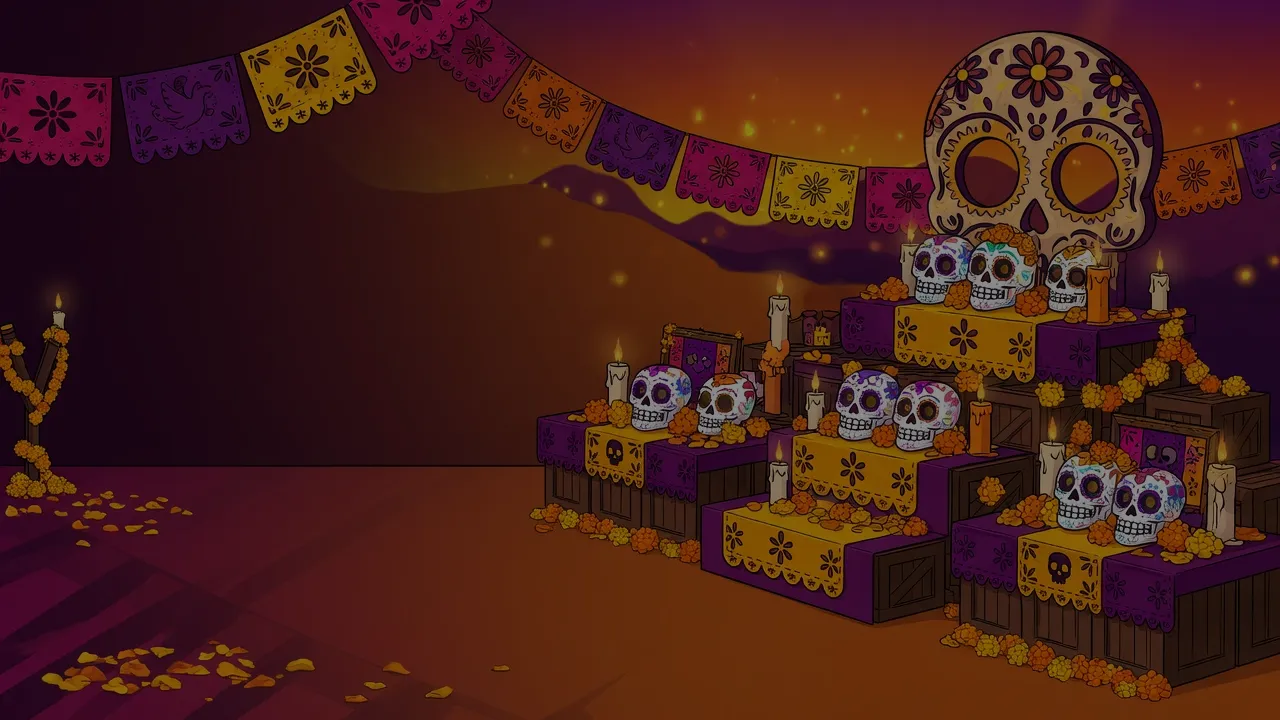
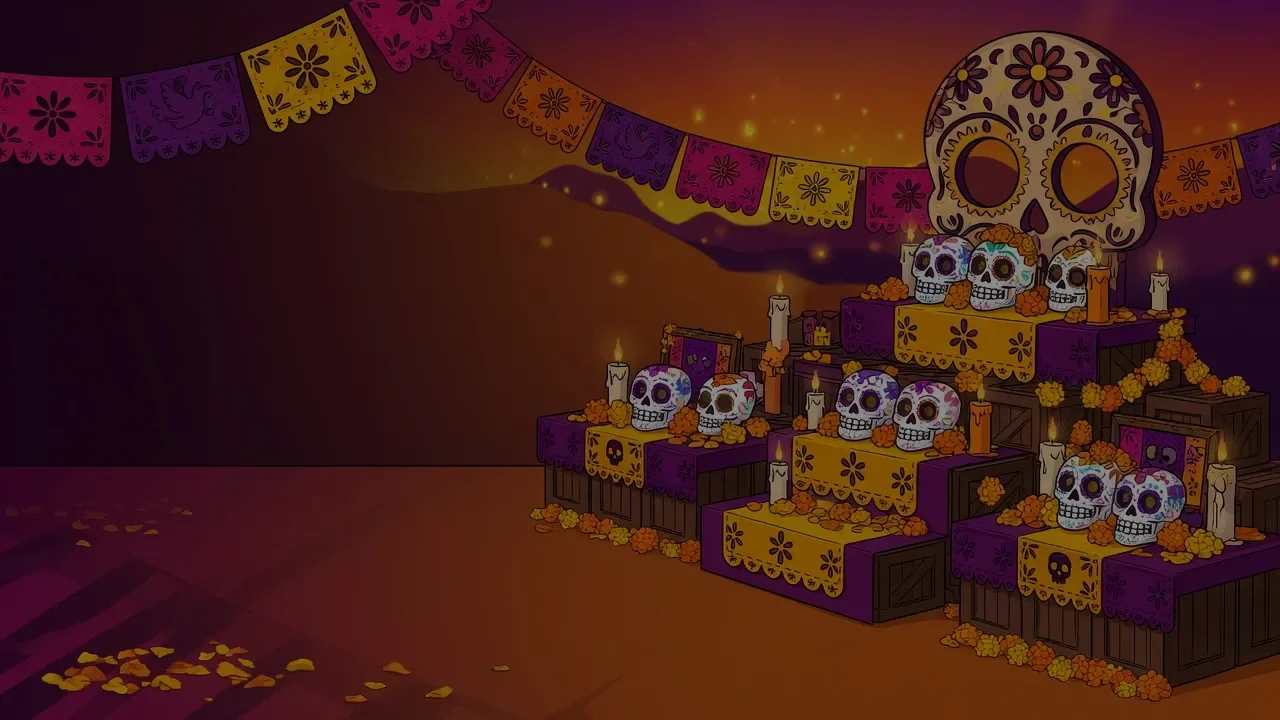
Chancla Strike: Abuela removed everywhere (gameplay, how-to, title/rotate text, level tip, share card, /choose card -> gold chancla); slingshot removed (no fork/bands; painted Y-fork removed from the cemetery/catacomb backdrops) - only the floating glowing gold chancla (bob, rays, halo, sparkles), d

Changed region(s): [[0.0, 0.3972, 0.125, 0.7639]]

diff --git a/src/play/fling.ts b/src/play/fling.ts
@@ -9,12 +9,9 @@ import * as A from './flingAudio';
 
 const { Engine, Bodies, Composite, Body, Events, Vector, Sleeping } = Matter;
 const W = 1100, H = 1000, GROUND = 920;            // world units; fits portrait & landscape
-// Slingshot: the floating gold chancla sits in a gold-banded sling in front of Abuela. SLING = rest point of the chancla;
-// launch + aim guide originate here. Pull back (drag anywhere), the chancla follows, glows with power, release to throw.
-const ABU = { x: 68, ground: 920 };                 // feet centre (same spot the old sprite stood)
-// v2 chibi art (front-facing, angry): wind-up = chancla held back on her left; release = same art mirrored, fist out toward the fort, chancla gone (in flight)
-const REL = { h: 210 };
-const SLING = { x: 176, y: 790 }, PRONG = 30, VIS = 0.42; // VIS = how far the chancla follows the pull on screen
+// The gold chancla is the thrower: it floats and glows at SLING (its rest point; launch + aim guide originate here).
+// Pull back on it (or drag anywhere), it follows the pull and glows with power, release to throw.
+const SLING = { x: 176, y: 790 }, VIS = 0.42; // VIS = how far the chancla follows the pull on screen
 const MAXPULL = 140, POWER = 0.21;
 
 const cv = document.createElement('canvas'); (document.body as HTMLElement).insertBefore(cv, document.body.firstChild);
@@ -36,7 +33,7 @@ function fit() {
   const cs = getComputedStyle(safeProbe); const sl = parseFloat(cs.paddingLeft) || 0, sr = parseFloat(cs.paddingRight) || 0, sb = parseFloat(cs.paddingBottom) || 0;
   const VIEW_H = 560, avW = VW - sl - sr, avH = VH - sb;
   if (VH > VW * 1.15) {
-    // Portrait: zoom onto abuela + fort and lift the ground to ~78% height.
+    // Portrait: zoom onto the launch spot + fort and lift the ground to ~78% height.
     scale = VW / 1060; ox = VW / 2 - (W / 2) * scale; oy = VH * 0.78 - GROUND * scale;
   } else { scale = Math.min(avW / W, (avH - 46) / VIEW_H); ox = sl + (avW - W * scale) / 2; oy = avH - (GROUND + 30) * scale; }
 }
@@ -70,7 +67,7 @@ document.addEventListener('visibilitychange', scheduleLayout);
 fit();
 
 const IMG: Record<string, HTMLImageElement> = {};
-const names = { bg: '/play/night_bg.webp', bgMercado: '/play/mercado_bg.webp', bgCata: '/play/cata_bg.webp', abuela: '/play/v2/abuela_angry.webp', abuelaRel: '/play/v2/abuela_throw.webp', lucha: '/play/t_lucha.webp', calaca: '/play/t_skull.webp', chancla: '/play/t_chancla.webp', pinata: '/play/t_pinata.webp' };
+const names = { bg: '/play/night_bg.webp', bgMercado: '/play/mercado_bg.webp', bgCata: '/play/cata_bg.webp', lucha: '/play/t_lucha.webp', calaca: '/play/t_skull.webp', chancla: '/play/t_chancla.webp', pinata: '/play/t_pinata.webp' };
 const TINT: Record<string, HTMLCanvasElement> = {};
 function tintImg(img: HTMLImageElement, color: string, a: number) {
   const c = document.createElement('canvas'); c.width = img.width; c.height = img.height; const g = c.getContext('2d')!;
@@ -111,7 +108,7 @@ const LEVELS: Level[] = [
   { area: 1, shots: 4, tip: 'Light the fireworks to chain the blast.', build: (l) => { for (const x of [880, 930, 980]) l.add('tnt', x, 0); const p = l.add('picado', 930, 46, 170, 16); l.add('lucha', 890, p); l.add('calaca', 970, p); l.add('ghost', 790, 200); l.add('ghost', 1050, 260); } },
   { area: 2, shots: 4, tip: 'New: Triple chancla! Tap mid-air to split it.', build: (l) => { for (const x of [780, 900, 1020]) { const t = l.stack(x, 0, [['stone', 40, 90], ['wood', 80, 20]]); l.add('calaca', x, t); } } },
   { area: 2, shots: 4, tip: 'Break the walls to reach the armored heads.', build: (l) => { l.add('stone', 820, 0, 30, 140); l.add('armor', 880, 0); l.add('stone', 940, 0, 30, 140); const t = l.add('wood', 880, 140, 170, 20); l.add('tnt', 880, t); l.add('armor', 1030, 0); l.add('ghost', 960, 290); } },
-  { area: 2, shots: 5, tip: 'The final fortress. ¡Ándale, Abuela!', build: (l) => { const a = l.bridge(800, 110, 100, 0, 'stone', 'wood'); l.add('lucha', 800, 0); l.add('armor', 800, a); const b = l.bridge(970, 120, 120, 0, 'wood', 'stone'); l.add('tnt', 970, 0); l.add('calaca', 970, b); l.add('pinata', 885, 0); l.add('ghost', 1060, 300); l.add('tnt', 1050, 0); } },
+  { area: 2, shots: 5, tip: 'The final fortress. ¡Ándale!', build: (l) => { const a = l.bridge(800, 110, 100, 0, 'stone', 'wood'); l.add('lucha', 800, 0); l.add('armor', 800, a); const b = l.bridge(970, 120, 120, 0, 'wood', 'stone'); l.add('tnt', 970, 0); l.add('calaca', 970, b); l.add('pinata', 885, 0); l.add('ghost', 1060, 300); l.add('tnt', 1050, 0); } },
 ];
 const PICADO = ['#f72585', '#4cc9f0', '#ffd166', '#06d6a0', '#9b5de5'];
 
@@ -128,7 +125,7 @@ const engine = Engine.create({ enableSleeping: true, positionIterations: 10, vel
 const world = engine.world;
 let level = 0, score = 0, shotsLeft = 0, flying: Matter.Body[] = [], shotAt = 0, ended = false, playing = false, armed = false, split = false;
 let shotType: ShotType = 'chancla', throwKOs = 0, slowT = 0, focus = { x: 880, y: 800 }, zoom = 1, levelT = 0;
-let aiming = false, pull = { x: 0, y: 0 }, abuelaKick = 0, relT = 0, shake = 0, flashT = 0;
+let aiming = false, pull = { x: 0, y: 0 }, relT = 0, shake = 0, flashT = 0;
 interface Part { x: number; y: number; vx: number; vy: number; life: number; c: string; s: number }
 const parts: Part[] = [];
 interface Pop { x: number; y: number; t: string; life: number; big?: boolean }
@@ -261,7 +258,7 @@ const release = () => {
   if (!aiming) return; aiming = false;
   if (Math.hypot(pull.x, pull.y) < 25) { pull = { x: 0, y: 0 }; A.stretchStop(); return; }
   makeShot(SLING.x, SLING.y, -pull.x * POWER, -pull.y * POWER); relT = 0.45; A.stretchStop(); A.twang(Math.hypot(pull.x, pull.y) / MAXPULL);
-  armed = true; split = false; shotAt = performance.now(); shotsLeft--; throwKOs = 0; abuelaKick = 1; vib(15);
+  armed = true; split = false; shotAt = performance.now(); shotsLeft--; throwKOs = 0; vib(15);
   { const pw = Math.hypot(pull.x, pull.y) / MAXPULL; A.whoosh(pw); } pull = { x: 0, y: 0 }; hud();
 };
 function doSplit() { markBonus('fling', 'triple_split');
@@ -336,40 +333,35 @@ function drawImg(img: CanvasImageSource & { width: number; height: number }, x: 
   ctx.save(); ctx.translate(x, y); ctx.rotate(ang); ctx.drawImage(img, -w / 2, -h / 2, w, h); ctx.restore();
 }
 function shotImg(): (CanvasImageSource & { width: number; height: number }) | undefined { return shotType === 'boot' ? TINT.boot : shotType === 'triple' ? TINT.triple : IMG.chancla; }
-function drawSling(loaded: boolean) {
+function drawRelic(loaded: boolean) {
   const pl = Math.hypot(pull.x, pull.y), pw = aiming ? Math.min(1, pl / MAXPULL) : 0;
-  const L = { x: SLING.x - PRONG, y: SLING.y - 26 }, R = { x: SLING.x + PRONG, y: SLING.y - 30 };
-  // carved wooden Y fork with gold caps
-  ctx.lineCap = 'round'; ctx.strokeStyle = '#5a3418'; ctx.lineWidth = 11;
-  ctx.beginPath(); ctx.moveTo(SLING.x, GROUND); ctx.lineTo(SLING.x, SLING.y + 40); ctx.lineTo(L.x, L.y); ctx.moveTo(SLING.x, SLING.y + 40); ctx.lineTo(R.x, R.y); ctx.stroke();
-  ctx.strokeStyle = '#8b5a2b'; ctx.lineWidth = 4; ctx.beginPath(); ctx.moveTo(SLING.x - 2, GROUND); ctx.lineTo(SLING.x - 2, SLING.y + 40); ctx.stroke();
-  const bob = loaded && !aiming ? Math.sin(t * 2.4) * 5 : 0, tilt = loaded && !aiming ? Math.sin(t * 1.7) * 0.08 : 0;
+  // soft gold pool of light on the ground under the launch spot (the relic's "pedestal" is just light)
+  { const r = ctx.createRadialGradient(SLING.x, GROUND - 4, 4, SLING.x, GROUND - 4, 70); r.addColorStop(0, `rgba(255,200,90,${loaded ? 0.35 + pw * 0.2 : 0.15})`); r.addColorStop(1, 'rgba(255,200,90,0)');
+    ctx.fillStyle = r; ctx.save(); ctx.translate(SLING.x, GROUND - 4); ctx.scale(1, 0.32); ctx.beginPath(); ctx.arc(0, 0, 70, 0, 7); ctx.restore(); ctx.fill(); }
+  if (!loaded) return;
+  const bob = !aiming ? Math.sin(t * 2.4) * 6 : 0, tilt = !aiming ? Math.sin(t * 1.7) * 0.1 : 0;
   const jit = pw > 0.92 ? (Math.random() - 0.5) * 2.4 : 0;
   const c = { x: SLING.x + pull.x * VIS + jit, y: SLING.y + pull.y * VIS + bob + jit };
-  const band = (from: { x: number; y: number }) => { ctx.strokeStyle = `rgba(255,${Math.round(205 - pw * 60)},70,.95)`; ctx.lineWidth = 5 - pw * 2; ctx.beginPath(); ctx.moveTo(from.x, from.y); ctx.lineTo(c.x, c.y); ctx.stroke(); };
-  if (loaded) band(R); // back band behind the chancla
-  if (loaded) {
-    // glow halo grows with pull power; idle it breathes
-    const hr = 46 + pw * 46 + Math.sin(t * 4) * 4, g = ctx.createRadialGradient(c.x, c.y, 4, c.x, c.y, hr);
-    g.addColorStop(0, `rgba(255,236,150,${0.55 + pw * 0.35})`); g.addColorStop(0.45, `rgba(255,190,60,${0.25 + pw * 0.3})`); g.addColorStop(1, 'rgba(255,170,40,0)');
-    ctx.fillStyle = g; ctx.beginPath(); ctx.arc(c.x, c.y, hr, 0, 7); ctx.fill();
-    // sparkles orbiting the relic
-    ctx.fillStyle = '#fff6c8'; for (let i = 0; i < 5; i++) { const a = t * (1.2 + pw * 2) + i * 1.257, r = 34 + Math.sin(t * 3 + i) * 6 + pw * 14; ctx.globalAlpha = 0.5 + 0.5 * Math.sin(t * 5 + i * 2); ctx.beginPath(); ctx.arc(c.x + Math.cos(a) * r, c.y + Math.sin(a) * r * 0.6, 2.2, 0, 7); ctx.fill(); } ctx.globalAlpha = 1;
-    const si = shotType === 'chancla' ? IMG.chancla : shotImg();
-    if (si) { ctx.save(); ctx.shadowColor = 'rgba(255,214,90,1)'; ctx.shadowBlur = 18 + pw * 26; drawImg(si, c.x, c.y, SHOT_INFO[shotType].r * (2.5 + pw * 0.3), (aiming ? Math.atan2(-pull.y, -pull.x) * 0.5 : -0.25) + tilt); ctx.restore(); }
-    band(L); // front band over it
-    if (aiming && pl >= 25) { // power meter under the sling
-      const bw = 92, bx = SLING.x - bw / 2, by = SLING.y - 92; // above the fork, clear of the ground edge
-      ctx.fillStyle = 'rgba(20,10,36,.75)'; ctx.fillRect(bx - 3, by - 3, bw + 6, 14);
-      const pg = ctx.createLinearGradient(bx, 0, bx + bw, 0); pg.addColorStop(0, '#ffe08a'); pg.addColorStop(1, '#ff5a1f');
-      ctx.fillStyle = pg; ctx.fillRect(bx, by, bw * pw, 8);
-      ctx.font = '900 18px system-ui'; ctx.textAlign = 'center'; ctx.lineWidth = 4; ctx.strokeStyle = '#1a0c2c'; const tx = `${Math.round(pw * 100)}%`;
-      ctx.strokeText(tx, SLING.x, by - 8); ctx.fillStyle = '#ffd166'; ctx.fillText(tx, SLING.x, by - 8);
-    } else if (!aiming) { ctx.globalAlpha = 0.35 + 0.25 * Math.sin(t * 4); ctx.strokeStyle = '#ffd68c'; ctx.lineWidth = 3; ctx.beginPath(); ctx.arc(SLING.x, SLING.y + bob, 50, 0, 7); ctx.stroke(); ctx.globalAlpha = 1; }
-  } else { // empty sling: band hangs between the prongs
-    ctx.strokeStyle = 'rgba(255,205,70,.9)'; ctx.lineWidth = 4; ctx.beginPath(); ctx.moveTo(L.x, L.y); ctx.quadraticCurveTo(SLING.x, SLING.y + 8, R.x, R.y); ctx.stroke();
-  }
-  ctx.fillStyle = '#ffd166'; for (const q of [L, R]) { ctx.beginPath(); ctx.arc(q.x, q.y, 6, 0, 7); ctx.fill(); }
+  // light rays behind it, turning slowly (faster with power)
+  ctx.save(); ctx.translate(c.x, c.y); ctx.rotate(t * (0.25 + pw * 1.2));
+  for (let i = 0; i < 10; i++) { ctx.rotate(Math.PI / 5); const g = ctx.createLinearGradient(0, 0, 0, -(70 + pw * 40)); g.addColorStop(0, `rgba(255,226,130,${0.22 + pw * 0.2})`); g.addColorStop(1, 'rgba(255,226,130,0)'); ctx.fillStyle = g; ctx.beginPath(); ctx.moveTo(-5, 0); ctx.lineTo(0, -(70 + pw * 40)); ctx.lineTo(5, 0); ctx.fill(); }
+  ctx.restore();
+  // glow halo grows with pull power; idle it breathes
+  const hr = 46 + pw * 46 + Math.sin(t * 4) * 4, g = ctx.createRadialGradient(c.x, c.y, 4, c.x, c.y, hr);
+  g.addColorStop(0, `rgba(255,236,150,${0.55 + pw * 0.35})`); g.addColorStop(0.45, `rgba(255,190,60,${0.25 + pw * 0.3})`); g.addColorStop(1, 'rgba(255,170,40,0)');
+  ctx.fillStyle = g; ctx.beginPath(); ctx.arc(c.x, c.y, hr, 0, 7); ctx.fill();
+  // sparkles orbiting the relic
+  ctx.fillStyle = '#fff6c8'; for (let i = 0; i < 6; i++) { const a = t * (1.2 + pw * 2) + i * 1.047, r = 36 + Math.sin(t * 3 + i) * 6 + pw * 14; ctx.globalAlpha = 0.5 + 0.5 * Math.sin(t * 5 + i * 2); ctx.beginPath(); ctx.arc(c.x + Math.cos(a) * r, c.y + Math.sin(a) * r * 0.6, 2.2, 0, 7); ctx.fill(); } ctx.globalAlpha = 1;
+  const si = shotType === 'chancla' ? IMG.chancla : shotImg();
+  if (si) { ctx.save(); ctx.shadowColor = 'rgba(255,214,90,1)'; ctx.shadowBlur = 18 + pw * 26; drawImg(si, c.x, c.y, SHOT_INFO[shotType].r * (2.6 + pw * 0.3), (aiming && pl >= 25 ? Math.atan2(-pull.y, -pull.x) * 0.5 : -0.25) + tilt); ctx.restore(); }
+  if (aiming && pl >= 25) { // power meter above the chancla's rest spot
+    const bw = 92, bx = SLING.x - bw / 2, by = SLING.y - 92;
+    ctx.fillStyle = 'rgba(20,10,36,.75)'; ctx.fillRect(bx - 3, by - 3, bw + 6, 14);
+    const pg = ctx.createLinearGradient(bx, 0, bx + bw, 0); pg.addColorStop(0, '#ffe08a'); pg.addColorStop(1, '#ff5a1f');
+    ctx.fillStyle = pg; ctx.fillRect(bx, by, bw * pw, 8);
+    ctx.font = '900 18px system-ui'; ctx.textAlign = 'center'; ctx.lineWidth = 4; ctx.strokeStyle = '#1a0c2c'; const tx = `${Math.round(pw * 100)}%`;
+    ctx.strokeText(tx, SLING.x, by - 8); ctx.fillStyle = '#ffd166'; ctx.fillText(tx, SLING.x, by - 8);
+  } else if (!aiming) { ctx.globalAlpha = 0.35 + 0.25 * Math.sin(t * 4); ctx.strokeStyle = '#ffd68c'; ctx.lineWidth = 3; ctx.beginPath(); ctx.arc(SLING.x, SLING.y + bob, 54, 0, 7); ctx.stroke(); ctx.globalAlpha = 1; }
 }
 function trajectory() {
   if (!aiming || Math.hypot(pull.x, pull.y) < 25) return;
@@ -400,7 +392,7 @@ function frameBody(now: number) {
     settledFor = settled() ? settledFor + dt : 0;
     checkFlow();
   }
-  abuelaKick = Math.max(0, abuelaKick - dt * 3); relT = Math.max(0, relT - dt); shake = Math.max(0, shake - dt * 34);
+  relT = Math.max(0, relT - dt); shake = Math.max(0, shake - dt * 34);
   const area = AREAS[LEVELS[level].area];
   ctx.setTransform(dpr, 0, 0, dpr, 0, 0);
   ctx.fillStyle = '#140a24'; ctx.fillRect(0, 0, VW, VH);
@@ -414,17 +406,8 @@ function frameBody(now: number) {
   ctx.fillStyle = gg; ctx.fillRect(-W, GROUND, W * 3, H - GROUND + 200);
   ctx.fillStyle = '#ff9f1c'; for (let i = 0; i < 40; i++) { ctx.globalAlpha = 0.5; ctx.beginPath(); ctx.arc((i * 97) % (W + 200) - 100, GROUND + 8 + (i * 37) % 60, 4, 0, 7); ctx.fill(); } ctx.globalAlpha = 1;
   for (const cx of [60, 420, 1080]) { const r = ctx.createRadialGradient(cx, GROUND - 10, 2, cx, GROUND - 10, 60 + Math.sin(t * 7 + cx) * 4); r.addColorStop(0, 'rgba(255,170,60,.55)'); r.addColorStop(1, 'rgba(255,170,60,0)'); ctx.fillStyle = r; ctx.fillRect(cx - 70, GROUND - 80, 140, 140); ctx.fillStyle = '#fbf3d5'; ctx.fillRect(cx - 4, GROUND - 22, 8, 22); ctx.fillStyle = '#ffd166'; ctx.beginPath(); ctx.ellipse(cx, GROUND - 28, 4, 7, 0, 0, 7); ctx.fill(); }
-  { // Abuela stands behind the sling cheering it on: empty-hand pose (fist toward the fort); leans in while you pull, punches on release
-    const im = IMG.abuelaRel || IMG.abuela;
-    if (im) {
-      const h = REL.h, w = h * (im.width / im.height), bob = Math.sin(t * 2) * 1.5;
-      const lean = relT > 0 ? 0.12 * Math.min(1, relT / 0.45 + 0.4) : (aiming ? 0.05 : 0) + Math.sin(t * 2) * 0.012;
-      ctx.save(); ctx.translate(ABU.x - 14, ABU.ground + bob); ctx.rotate(lean); if (IMG.abuelaRel) ctx.scale(-1, 1);
-      ctx.drawImage(im, -w / 2, -h, w, h); ctx.restore();
-    }
-  }
   const loaded = playing && !ended && !flying.length && shotsLeft > 0;
-  drawSling(loaded && relT <= 0);
+  drawRelic(loaded && relT <= 0);
   trajectory();
   for (const b of Composite.allBodies(world)) {
     if (b.isStatic && !ghosts.includes(b)) continue;

diff --git a/chancla-strike.html b/chancla-strike.html
@@ -9,15 +9,15 @@
 <meta property="og:description" content="Throw chanclas at villain forts across 9 levels: cemetery, night market and catacombs." />
 <link rel="canonical" href="%VITE_SITE_URL%/chancla-strike" />
 <meta property="og:url" content="%VITE_SITE_URL%/chancla-strike" />
-<meta property="og:image" content="%VITE_SITE_URL%/og.png" />
+<meta property="og:image" content="%VITE_SITE_URL%/og/strike-1200x630.jpg" />
 <meta property="og:image:width" content="1200" />
 <meta property="og:image:height" content="630" />
-<meta property="og:image:alt" content="Chanclazo: new chibi Abuela (smiling and angry) and Sidro under the yellow Chanclazo logo, gold chancla, papel picado, and Day of the Dead plaza candles." />
+<meta property="og:image:alt" content="Chancla Strike: the glowing gold chancla under the yellow Chanclazo logo, with papel picado and a Day of the Dead ofrenda." />
 <meta name="twitter:card" content="summary_large_image" />
 <meta name="twitter:title" content="Chancla Strike · Chanclazo" />
 <meta name="twitter:description" content="Throw chanclas at villain forts across 9 levels: cemetery, night market and catacombs." />
-<meta name="twitter:image" content="%VITE_SITE_URL%/og.png" />
-<meta name="twitter:image:alt" content="Chanclazo: new chibi Abuela (smiling and angry) and Sidro under the yellow Chanclazo logo, gold chancla, papel picado, and Day of the Dead plaza candles." />
+<meta name="twitter:image" content="%VITE_SITE_URL%/og/strike-1200x630.jpg" />
+<meta name="twitter:image:alt" content="Chancla Strike: the glowing gold chancla under the yellow Chanclazo logo, with papel picado and a Day of the Dead ofrenda." />
 <link rel="icon" href="/cruise/logo_chancla.webp" />
 <link rel="manifest" href="/chancla-strike.webmanifest" />
 <meta name="theme-color" content="#140a24" />
@@ -37,7 +37,7 @@
 <div id="rotate"><div class="card">
   <div class="phone">📱</div>
   <h1>Turn your phone sideways</h1>
-  <p>Chancla Strike plays in landscape. Rotate your phone and Abuela’s slingshot will be ready!</p>
+  <p>Chancla Strike plays in landscape. Rotate your phone and the gold chancla will be ready!</p>
   <p class="keys">Screen won't turn? Turn off Rotation Lock in Control Center, or tap Play anyway.</p>
   <p class="keys"><button id="playAnyway" type="button">Play anyway</button></p>
 </div></div>
@@ -64,8 +64,8 @@ html,body{height:100%;height:100dvh}
 <div class="screen" id="start"><div class="card">
   <img src="/cruise/logo_chancla.webp" alt="Chanclazo logo" />
   <h1>Chancla Strike</h1>
-  <p>Luchadores and calacas are hiding from the cemetery to the catacombs. Help Abuela knock them all down!</p>
-  <p class="keys">Pull back the glowing gold chancla in Abuela’s slingshot (drag anywhere), watch the arc and power, let go to fling it.<br/>Topple every villain to clear the level. Fewer chanclas used = more stars. Earn stars to unlock new areas.</p>
+  <p>Luchadores and calacas are hiding from the cemetery to the catacombs. Fling the gold chancla and knock them all down!</p>
+  <p class="keys">Pull back the floating gold chancla (or drag anywhere), watch the arc and power, let go to fling it.<br/>Topple every villain to clear the level. Fewer chanclas used = more stars. Earn stars to unlock new areas.</p>
   <button id="go">PLAY!</button>
   <p class="keys"><a href="/choose">More games</a></p>
 </div></div>
